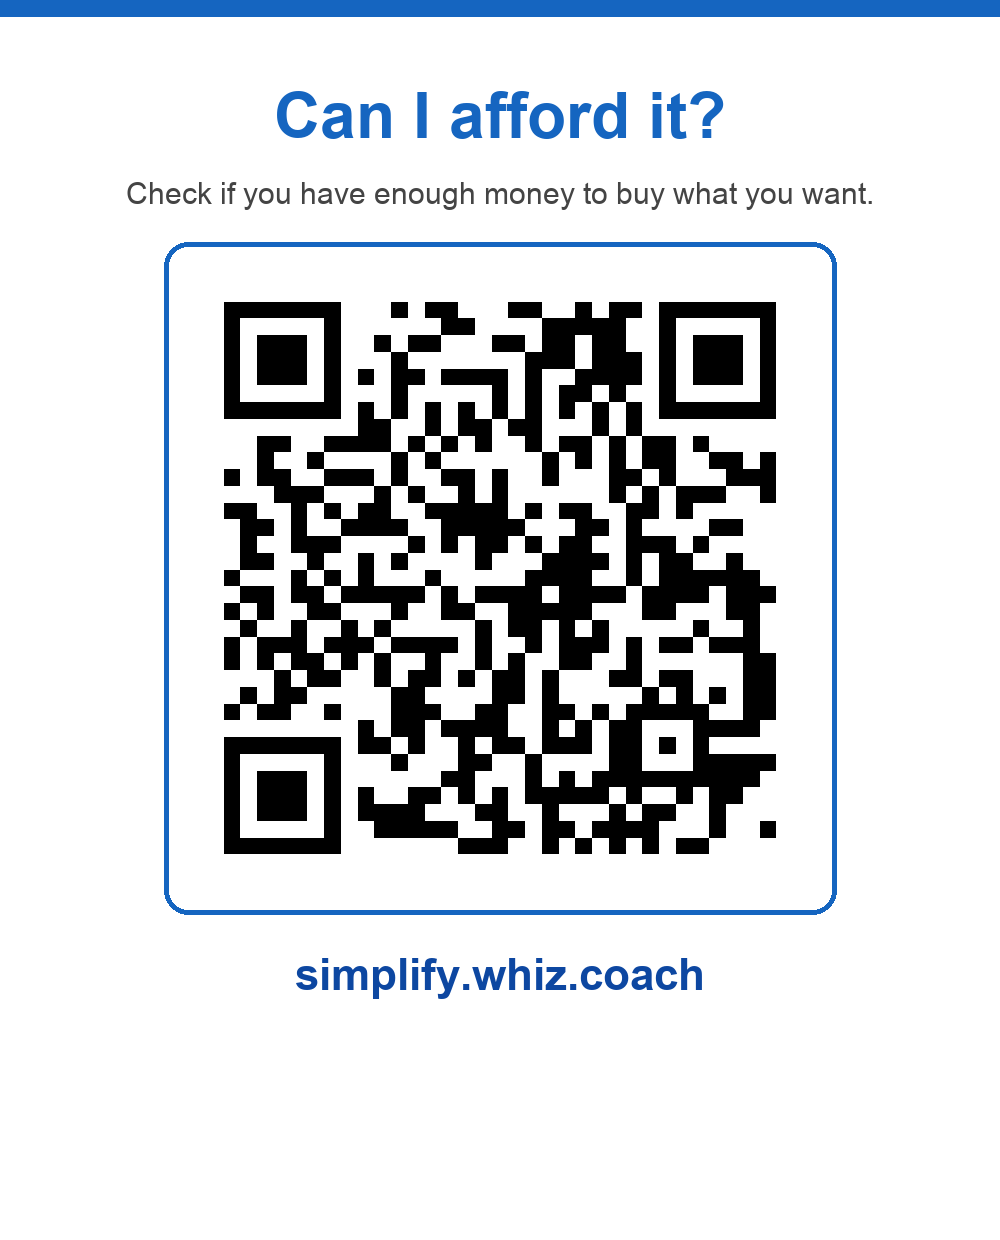
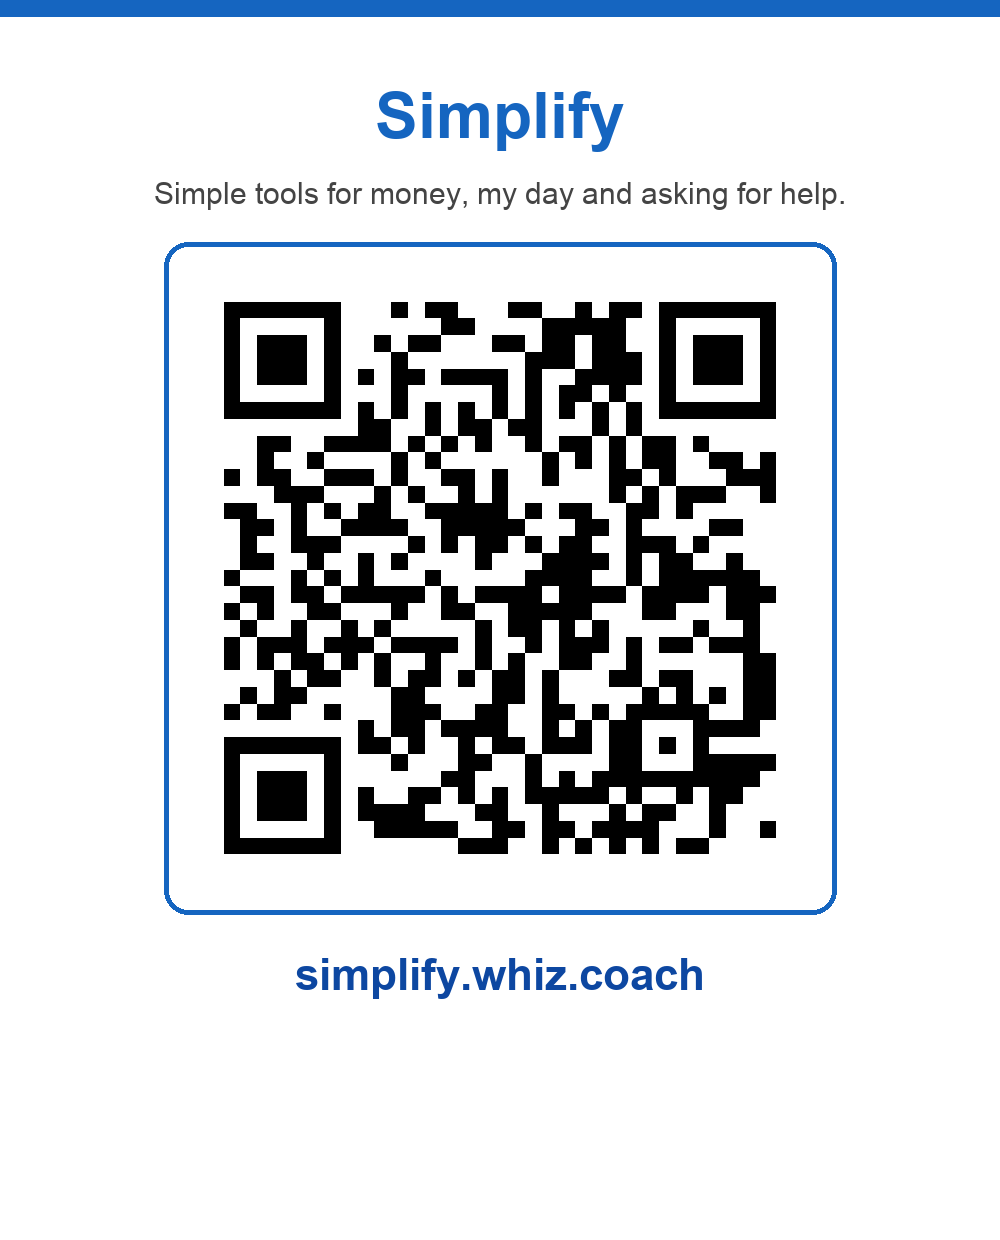
fix: small things found while documenting
- guide-links.js looked old #section links up in a plain object, so
  /guide#toString failed; own keys only now.
- A paused class told its coach 'you can read it here'; the rules keep
  it closed, and the note now says so.
- Deploys on merge now wait for the same tests as pull requests.
- The QR poster, manifest and link-preview text no longer describe a
  money-only app ('Can I afford it?').
- Coach back links had lost the space after the arrow.
- CACHE simplify-v37.

Changed region(s): [[0.279, 0.0613, 0.744, 0.1226], [0.124, 0.1532, 0.682, 0.1839], [0.713, 0.1532, 0.868, 0.1839]]

diff --git a/public/index.html b/public/index.html
@@ -6,7 +6,7 @@
   <meta name="viewport" content="width=device-width, initial-scale=1, viewport-fit=cover">
   <meta name="theme-color" content="#1565c0">
   <meta name="description"
-    content="Simple money tools: can I buy it, what is my change, next dollar, next note, make the amount, and a shopping list.">
+    content="Simple tools for every day: money, now and next, wait, steps, I need, show a card, and My class.">
   <title>Simplify</title>
   <link rel="canonical" href="https://simplify.whiz.coach/">
 
@@ -23,7 +23,7 @@
   <meta property="og:url" content="https://simplify.whiz.coach/">
   <meta property="og:title" content="Simplify">
   <meta property="og:description"
-    content="Simple money tools for special-needs learners: can I buy it, what is my change, next dollar, next note, make the amount, and a shopping list. Offline-friendly.">
+    content="Simple everyday tools for special-needs learners: money, now and next, wait, steps, I need, show a card, and a class page from their coach. Offline-friendly.">
   <meta property="og:image" content="https://simplify.whiz.coach/img/og-card.png?v=2">
   <meta property="og:image:type" content="image/png">
   <meta property="og:image:width" content="1200">
@@ -34,7 +34,7 @@
   <meta name="twitter:card" content="summary_large_image">
   <meta name="twitter:title" content="Simplify">
   <meta name="twitter:description"
-    content="Simple money tools for special-needs learners: can I buy it, what is my change, next dollar, next note, make the amount, and a shopping list. Offline-friendly.">
+    content="Simple everyday tools for special-needs learners: money, now and next, wait, steps, I need, show a card, and a class page from their coach. Offline-friendly.">
   <meta name="twitter:image" content="https://simplify.whiz.coach/img/og-card.png?v=2">
   <meta name="twitter:image:alt" content="Simplify — QR code linking to simplify.whiz.coach">
 

diff --git a/public/coach/js/screen-class.js b/public/coach/js/screen-class.js
@@ -117,7 +117,7 @@ export function classScreen(root, ctx, code) {
       document.title = `${klass.name} · Simplify for coaches`;
       if (klass.status !== "active" && !problems.querySelector(".is-paused-note")) {
         problems.append(h("div", { class: "is-paused-note" },
-          notice("The admin has paused this class. You can read it here, but nothing can be changed or published.", { tone: "warning" })));
+          notice("The admin has paused this class. Learners can't see it, and its pages, pictures and videos can't be opened or changed until the admin lets it back in.", { tone: "warning" })));
       }
       ws.emit("class");
     }, listProblem),

diff --git a/public/coach/css/coach.css b/public/coach/css/coach.css
@@ -176,7 +176,7 @@ a.class-card-body:active { background: var(--c-accent-soft); }
 .request-when { font-size: 15px; color: var(--c-muted); }
 
 /* ---------- a class ---------- */
-.back-link { display: inline-flex; align-items: center; min-height: 44px; font-weight: 600; }
+.back-link { display: inline-flex; align-items: center; gap: 4px; min-height: 44px; font-weight: 600; }
 .class-title-row { display: flex; flex-wrap: wrap; align-items: center; gap: 8px 14px; margin-bottom: 8px; }
 .class-heading { margin: 0; }
 .code-pill {

diff --git a/public/js/guide-links.js b/public/js/guide-links.js
@@ -22,8 +22,9 @@ const MOVED = {
 };
 
 function followMove() {
-  const moved = MOVED[location.hash.slice(1)];
-  if (moved) location.replace(moved);
+  // own keys only: /guide#toString must not find Object's toString
+  const key = location.hash.slice(1);
+  if (Object.hasOwn(MOVED, key)) location.replace(MOVED[key]);
 }
 
 followMove();

diff --git a/public/sw.js b/public/sw.js
@@ -6,7 +6,7 @@
 // response breaks offline navigations. Every file under public/ belongs here
 // (bar the few tools/test-assets.mjs names, which no device needs), and
 // `node tools/test-assets.mjs` checks both ways.
-const CACHE = "simplify-v36";
+const CACHE = "simplify-v37";
 const ASSETS = [
   "/",
   "/guide",

diff --git a/tools/make-qr.py b/tools/make-qr.py
@@ -8,9 +8,9 @@ from PIL import Image, ImageDraw, ImageFont
 
 URL = "https://simplify.whiz.coach/"
 URL_LABEL = "simplify.whiz.coach"
-APP_NAME = "Simplify"          # the app; "Can I afford it?" is only its first page
-TITLE = "Can I afford it?"
-TAGLINE = "Check if you have enough money to buy what you want."
+APP_NAME = "Simplify"
+TITLE = "Simplify"
+TAGLINE = "Simple tools for money, my day and asking for help."
 
 PRIMARY = "#1565c0"
 PRIMARY_DARK = "#0d47a1"
